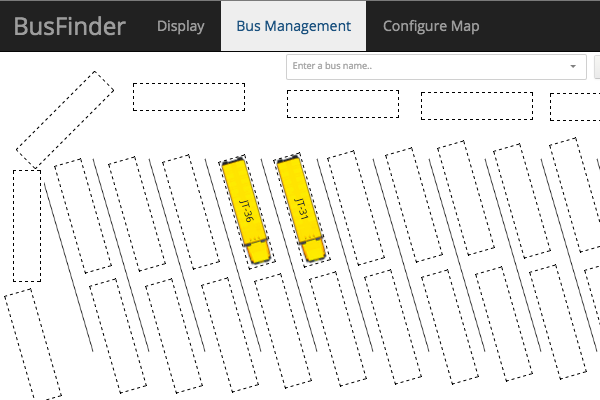
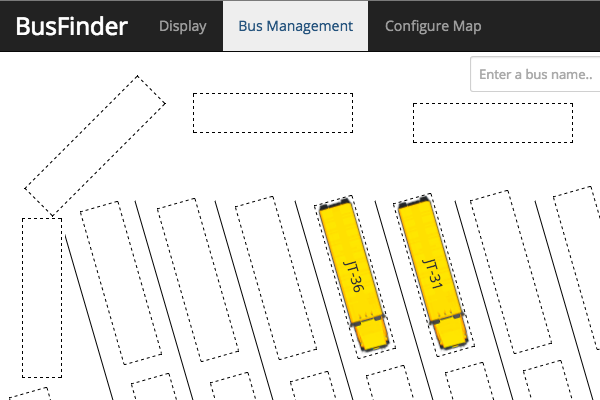
remove zoom: responsive for edit pages, screws up draganddrop

diff --git a/bus/static/css/display.css b/bus/static/css/display.css
@@ -112,26 +112,6 @@
     z-index: 99;
 }
 
-@media (max-width: 1170px) {
-    .container {
-        zoom: 0.9
-    }
-
-    .addbus, .container {
-        top: 61px;
-    }
-}
-
-@media (max-width: 1050px) {
-    .container {
-        zoom: 0.8;
-    }
-
-    .addbus, .container {
-        top: 65px;
-    }
-}
-
 .message {
     position: fixed;
     top: 95px;
@@ -144,32 +124,65 @@
     cursor: pointer;
 }
 
+@media (max-width: 490px) {
+
+    .container:not(.do-zoom) .addbus .inner {
+        width: 320px;
+    }
+
+    .container:not(.do-zoom) .addbus .inner select,
+    .container:not(.do-zoom) .addbus .inner .selectize-control,
+    .container:not(.do-zoom) .addbus .inner .selectize-control input {
+        width: 250px;
+    }
+}
+
+@media (max-width: 1170px) {
+    .container.do-zoom {
+        zoom: 0.9
+    }
+
+    .container.do-zoom .addbus, .container.do-zoom {
+        top: 61px;
+    }
+}
+
+@media (max-width: 1050px) {
+    .container.do-zoom {
+        zoom: 0.8;
+    }
+
+    .container.do-zoom .addbus, .container.do-zoom {
+        top: 65px;
+    }
+}
+
 @media (max-width: 934px) {
-    .container {
+    .container.do-zoom {
         zoom: 0.7;
     }
 
-    .addbus, .container {
+    .container.do-zoom .addbus, .container.do-zoom {
         top: 75px;
     }
 }
 
 @media (max-width: 817px) {
-    .container {
+    .container.do-zoom {
         zoom: 0.6;
     }
 
-    .addbus, .container {
+    .container.do-zoom .addbus, .container.do-zoom {
         top: 90px;
     }
 }
 
 @media (max-width: 700px) {
-    .container {
+    .container.do-zoom {
         zoom: 0.5;
     }
 
-    .addbus, .container {
+    .container.do-zoom .addbus, .container.do-zoom {
         top: 105px;
     }
 }

diff --git a/bus/templates/index.html b/bus/templates/index.html
@@ -85,7 +85,7 @@ iodine = function() {
 </div>
 {% endif %}
 
-<div class="container">
+<div class="container do-zoom">
     {% include "positioning.html" %}
     <canvas id="lineCanvas" width="1110" height="500"></canvas>
 {% for inst in instances %}

diff --git a/bus/templates/display.html b/bus/templates/display.html
@@ -17,7 +17,7 @@
 {% endblock %}
 
 {% block content %}
-<div class="container">
+<div class="container do-zoom">
 {% include "positioning.html" %}
 
     <canvas id="lineCanvas" width="1110" height="500"></canvas>

diff --git a/bus/static/css/base.css b/bus/static/css/base.css
@@ -15,6 +15,7 @@ nav a.navbar-brand {
 
 nav.navbar-inverse a.navbar-brand {
     color: #4d90fe;
+    font-family: 'Open Sans';
 }
 
 nav > ul {
